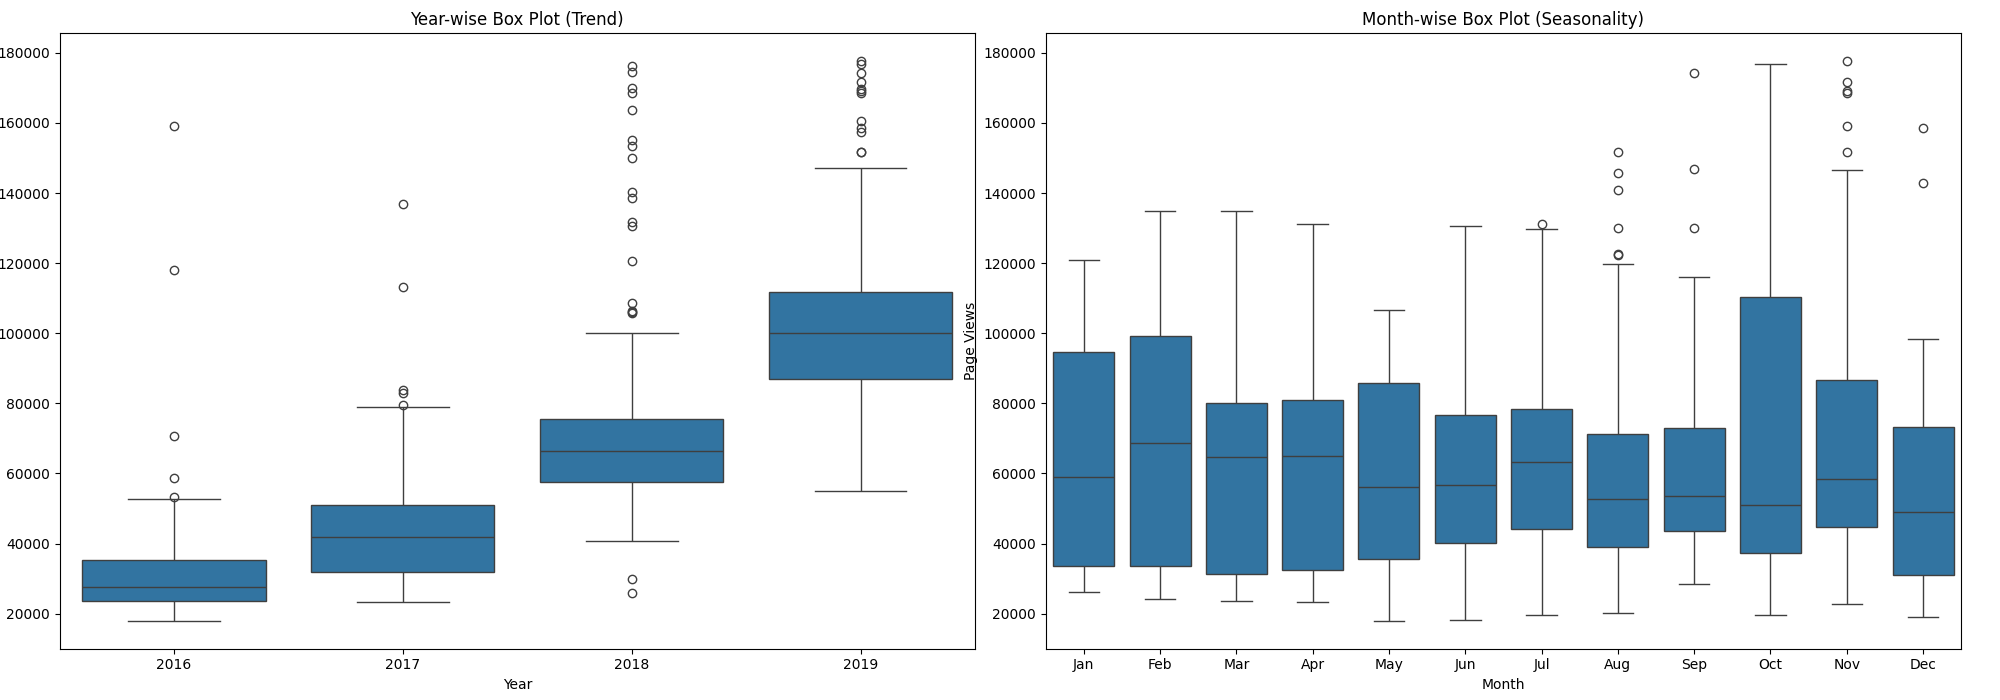
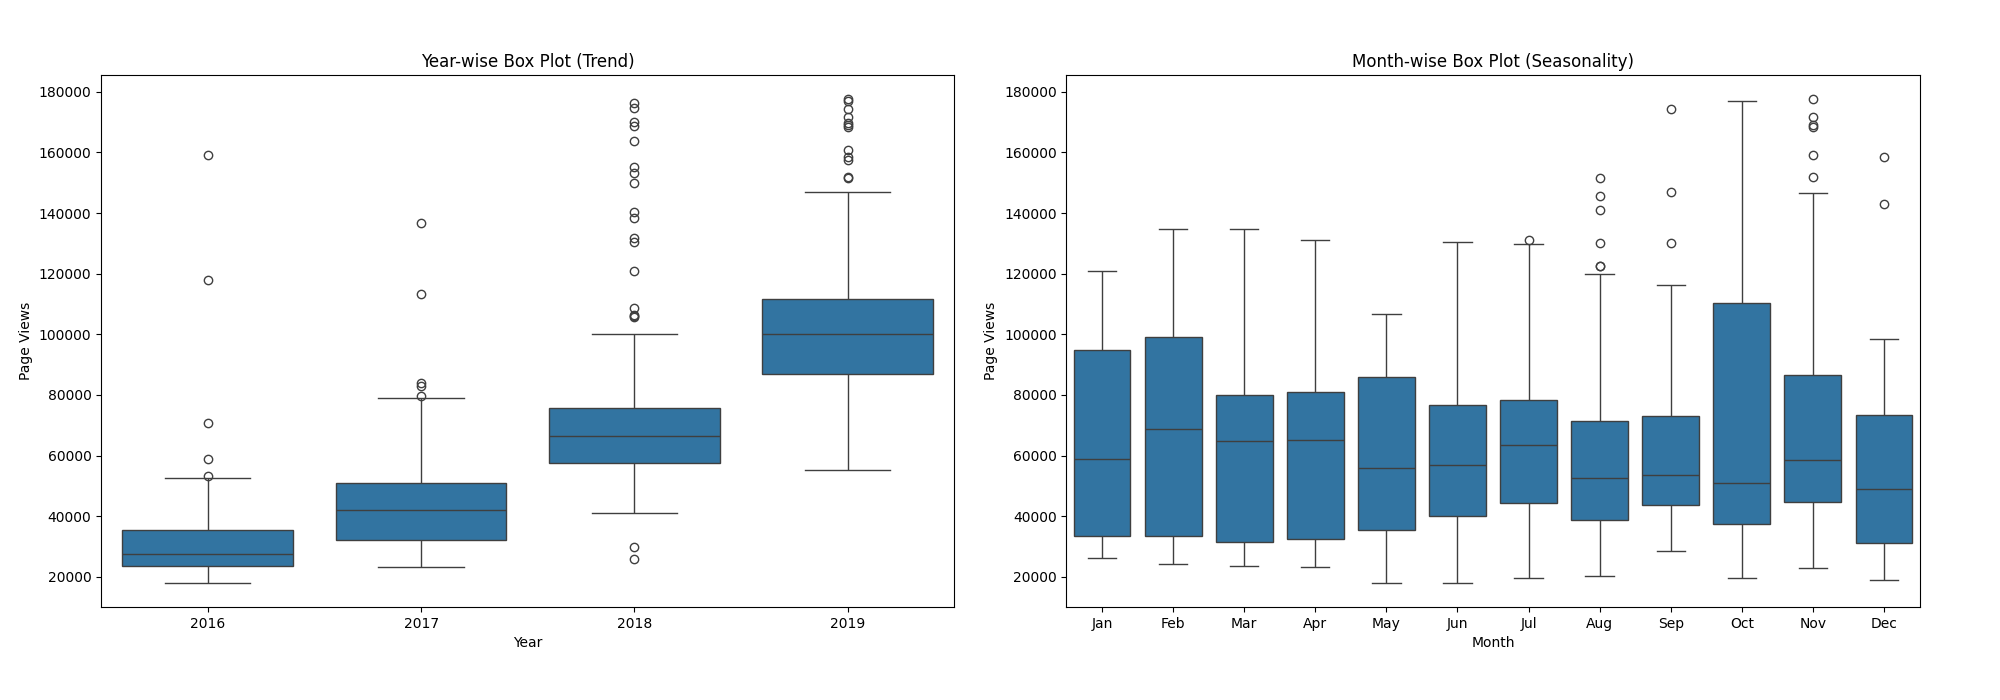
edited plot to look better

diff --git a/time_series_visualizer.py b/time_series_visualizer.py
@@ -77,7 +77,7 @@ def draw_box_plot():
 
     # Draw box plots (using Seaborn)
     fig, ax = plt.subplots(1, 2, figsize=(20,7))
-    plt.tight_layout(pad=2)
+    plt.tight_layout(pad=5)
     
     ax.flat[0].set_title('Year-wise Box Plot (Trend)')
     ax.flat[1].set_title('Month-wise Box Plot (Seasonality)')
@@ -87,6 +87,7 @@ def draw_box_plot():
     ax.flat[0].set_xlabel('Year')
     ax.flat[1].set_xlabel('Month')
     
+    
     sns.boxplot(
         data=df_box, x='year', y='value', ax=ax[0]
     )
@@ -94,7 +95,7 @@ def draw_box_plot():
     sns.boxplot(
         data=df_box, x='month', y='value', ax=ax[1], order=list(map(lambda x: x[:3], MONTHS))
     )
-
+    
     # Save image and return fig (don't change this part)
     fig.savefig('box_plot.png')
     return fig
